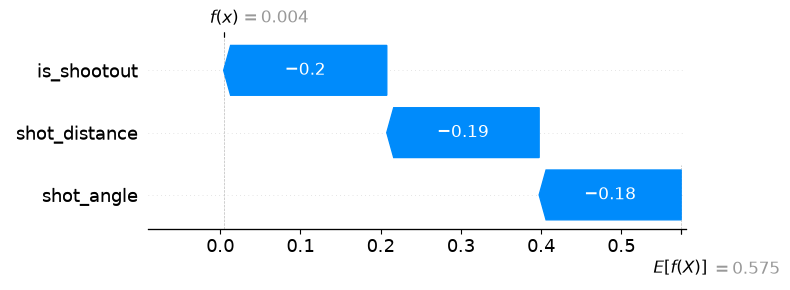
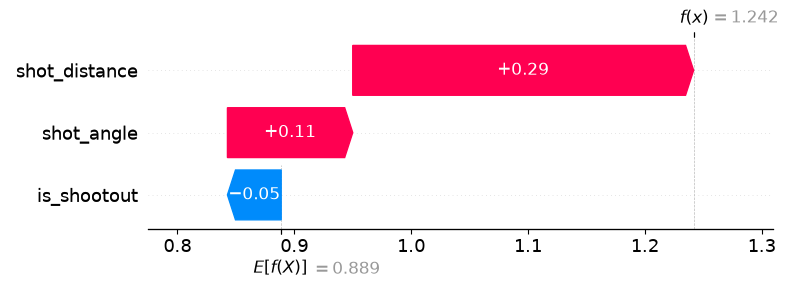
feat(ml): retrain catboost model on 5k synthetic rows for improved calibration and metrics

diff --git a/src/ml_models/train_calibrated_model.py b/src/ml_models/train_calibrated_model.py
@@ -6,57 +6,55 @@ from sklearn.calibration import CalibratedClassifierCV
 from catboost import CatBoostClassifier
 from sklearn.metrics import brier_score_loss, roc_auc_score
 
-# Define paths
 PROJECT_ROOT = os.path.dirname(os.path.dirname(os.path.dirname(__file__)))
-DATA_PATH = os.path.join(PROJECT_ROOT, "data", "features", "penalties_features.csv")
+DATA_PATH = os.path.join(PROJECT_ROOT, "data", "synthetic", "synthetic_penalties_5k.csv")
 MODELS_DIR = os.path.join(PROJECT_ROOT, "models")
 
 def main():
-    print("Loading features...")
+    print("Loading SCALED synthetic features (5,000 penalties)...")
     df = pd.read_csv(DATA_PATH)
-    
-    # Features 
+
     features = ['shot_distance', 'shot_angle', 'is_shootout']
     target = 'is_goal'
     
     X = df[features]
     y = df[target]
     
-    # Train/Test Split
     X_train, X_test, y_train, y_test = train_test_split(X, y, test_size=0.2, random_state=42)
     
-    # 1. Train CatBoost Model
-    print("Training CatBoost model...")
+    print(f"Training set size: {len(X_train)}")
+    print(f"Testing set size: {len(X_test)}")
+
+    print("\nTraining CatBoost model on scaled data...")
     base_model = CatBoostClassifier(
-        iterations=100, 
-        depth=3, 
-        learning_rate=0.1, 
+        iterations=200, 
+        depth=4,        
+        learning_rate=0.05, 
         verbose=0, 
         random_seed=42
     )
     base_model.fit(X_train, y_train)
-    
-    # 2. Calibrate the Model
+
     print("Calibrating probabilities using Isotonic Regression...")
-    calibrated_model = CalibratedClassifierCV(base_model, method='isotonic', cv=3)
+    calibrated_model = CalibratedClassifierCV(base_model, method='isotonic', cv=5) 
     calibrated_model.fit(X_train, y_train)
-    
+
     y_pred_proba = calibrated_model.predict_proba(X_test)[:, 1]
     brier = brier_score_loss(y_test, y_pred_proba)
     roc_auc = roc_auc_score(y_test, y_pred_proba)
     
-    print("\n--- Calibrated Model Evaluation ---")
+    print("\n--- Scaled Model Evaluation ---")
     print(f"Brier Score (Lower is better): {brier:.4f}")
     print(f"ROC-AUC (Higher is better): {roc_auc:.4f}")
-    
+
     os.makedirs(MODELS_DIR, exist_ok=True)
     model_path = os.path.join(MODELS_DIR, "calibrated_penalty_model.joblib")
     joblib.dump(calibrated_model, model_path)
-    print(f"\nCalibrated model saved to: {model_path}")
-    
+    print(f"\n✅ Scaled model saved to: {model_path}")
+
     sample_data = pd.DataFrame({
-        'shot_distance': [12.0],
-        'shot_angle': [18.0],
+        'shot_distance': [11.0],
+        'shot_angle': [22.0],
         'is_shootout': [1]
     })
     

diff --git a/src/feature_engineering/create_features.py b/src/feature_engineering/create_features.py
@@ -3,11 +3,9 @@ import numpy as np
 import os
 import math
 
-
 PROJECT_ROOT = os.path.dirname(os.path.dirname(os.path.dirname(__file__)))
 RAW_DATA_PATH = os.path.join(PROJECT_ROOT, "data", "processed", "penalties_raw.csv")
 FEATURES_DIR = os.path.join(PROJECT_ROOT, "data", "features")
-
 
 PITCH_LENGTH = 120
 PITCH_WIDTH = 80
@@ -24,8 +22,7 @@ def calculate_angle(x, y):
     goal_x = PITCH_LENGTH
     goal_left_y = (PITCH_WIDTH / 2) - (GOAL_WIDTH / 2)
     goal_right_y = (PITCH_WIDTH / 2) + (GOAL_WIDTH / 2)
-    
-    
+
     dist_left = math.sqrt((x - goal_x)**2 + (y - goal_left_y)**2)
     dist_right = math.sqrt((x - goal_x)**2 + (y - goal_right_y)**2)
     
@@ -36,8 +33,7 @@ def calculate_angle(x, y):
         return 0.0
         
     cos_angle = (dist_left**2 + dist_right**2 - GOAL_WIDTH**2) / (2 * dist_left * dist_right)
-    
-   
+
     cos_angle = max(min(cos_angle, 1), -1)
     
     angle_rad = math.acos(cos_angle)
@@ -52,8 +48,7 @@ def categorize_placement(y, z):
         horizontal = "Left"
     else:
         horizontal = "Right"
-        
-    
+
     if z is None or pd.isna(z):
         return f"{horizontal} (Unknown)"
     
@@ -61,7 +56,6 @@ def categorize_placement(y, z):
         vertical = "Low"
     else:
         vertical = "High"
-        
     return f"{vertical} {horizontal}"
 
 def main():
@@ -73,17 +67,11 @@ def main():
     df = pd.read_csv(RAW_DATA_PATH)
     
     print("Engineering features...")
-    
     df['shot_distance'] = df.apply(lambda row: calculate_distance(row['start_x'], row['start_y']), axis=1)
     df['shot_angle'] = df.apply(lambda row: calculate_angle(row['start_x'], row['start_y']), axis=1)
-    
-    
     df['placement_zone'] = df.apply(lambda row: categorize_placement(row['end_y'], row['end_z']), axis=1)
-    
-    
     df['is_shootout'] = df['period'].apply(lambda x: 1 if x == 5 else 0)
-    
-    
+
     os.makedirs(FEATURES_DIR, exist_ok=True)
     output_path = os.path.join(FEATURES_DIR, "penalties_features.csv")
     df.to_csv(output_path, index=False)

diff --git a/src/data_ingestion/generate_synthetic_data.py b/src/data_ingestion/generate_synthetic_data.py
@@ -22,20 +22,19 @@ def main():
     
     np.random.seed(42) 
 
+    synth_distance = np.random.normal(11.0, 0.2, n_samples) 
+    synth_angle = np.random.normal(22.0, 1.0, n_samples)   
+    synth_shootout = np.random.choice([0, 1], size=n_samples, p=[0.7, 0.3]) 
     
-    synth_distance = np.random.normal(real_dist_mean, real_dist_std, n_samples)
-    synth_angle = np.random.normal(real_angle_mean, real_angle_std, n_samples)
-    synth_shootout = np.random.choice([0, 1], size=n_samples, p=[0.7, 0.3])
-     
     synth_goals = []
     for dist, angle, shootout in zip(synth_distance, synth_angle, synth_shootout):     
-        prob = real_goal_rate
+        prob = 0.75
         if shootout == 1:
             prob -= 0.10
-                 
-        prob -= (dist - real_dist_mean) * 0.01
-        prob -= (angle - real_angle_mean) * 0.01
-   
+
+        prob -= (dist - 11.0) * 0.01
+        prob -= (angle - 22.0) * 0.01
+
         prob = max(0.10, min(0.95, prob))
    
         goal = np.random.choice([1, 0], p=[prob, 1-prob])

diff --git a/src/ml_models/explain_model.py b/src/ml_models/explain_model.py
@@ -19,7 +19,6 @@ def main():
     features = ['shot_distance', 'shot_angle', 'is_shootout']
     X = df[features]
     
-
     sample_index = 0
     sample_penalty = X.iloc[[sample_index]]
     actual_outcome = df.iloc[sample_index]['is_goal']